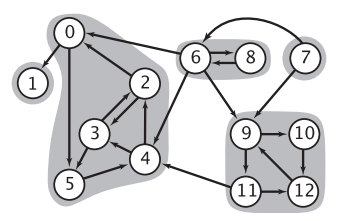
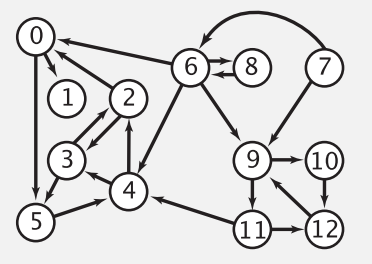
Cleanup

diff --git a/exercises/java/DigraphSCC.md b/exercises/java/DigraphSCC.md
@@ -2,14 +2,14 @@
 layout: exercise
 title: Digraph Strongly Connected Components
 question_text: >-
-  Preprocess digraph to answer queries in <i>constant</i> time:
+  Preprocess digraph to answer the queries in <i>constant</i> time:
   <ul>
   <li>Are two vertices <i>v</i> and <i>w</i> are <i>strongly</i> connected?</li>
   <li>How many <i>strong</i> components does the digraph have?</li>
   </ul>
   <table border="1">
     <tr>
-      <td><img relative_src="/assets/images/tinyDG.png" title="tinyDG"></td>
+      <td><img relative_src="/assets/images/tinyDG-scc.png" title="tinyDG"></td>
     </tr>
   </table>
 solution_file: /sources/java/DigraphSCC.java
